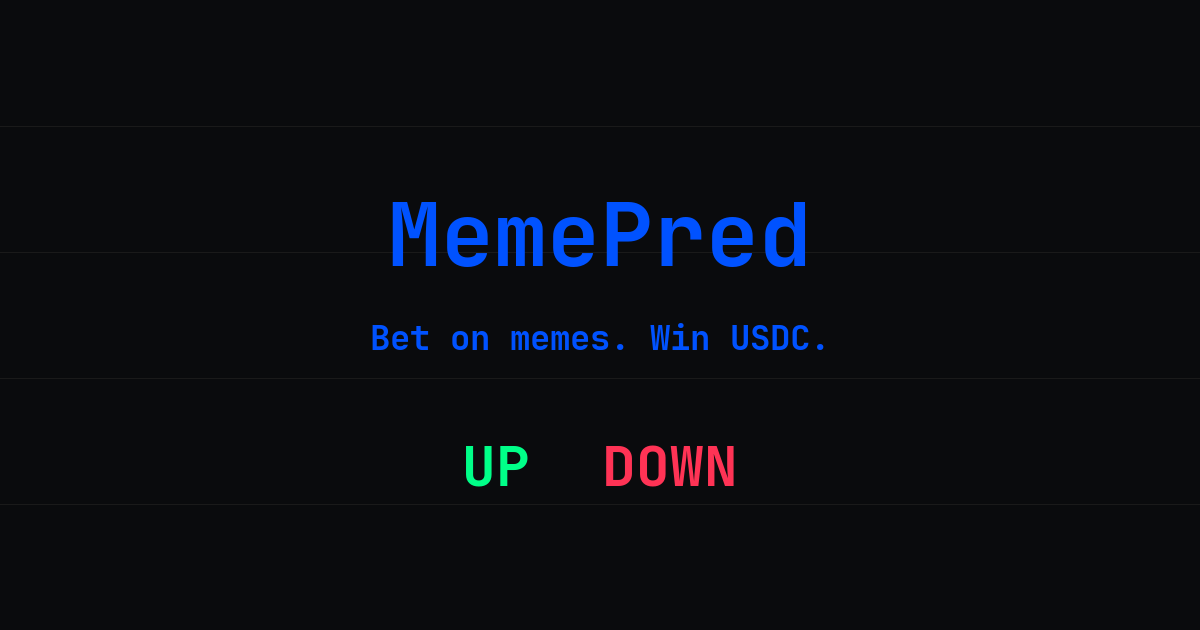
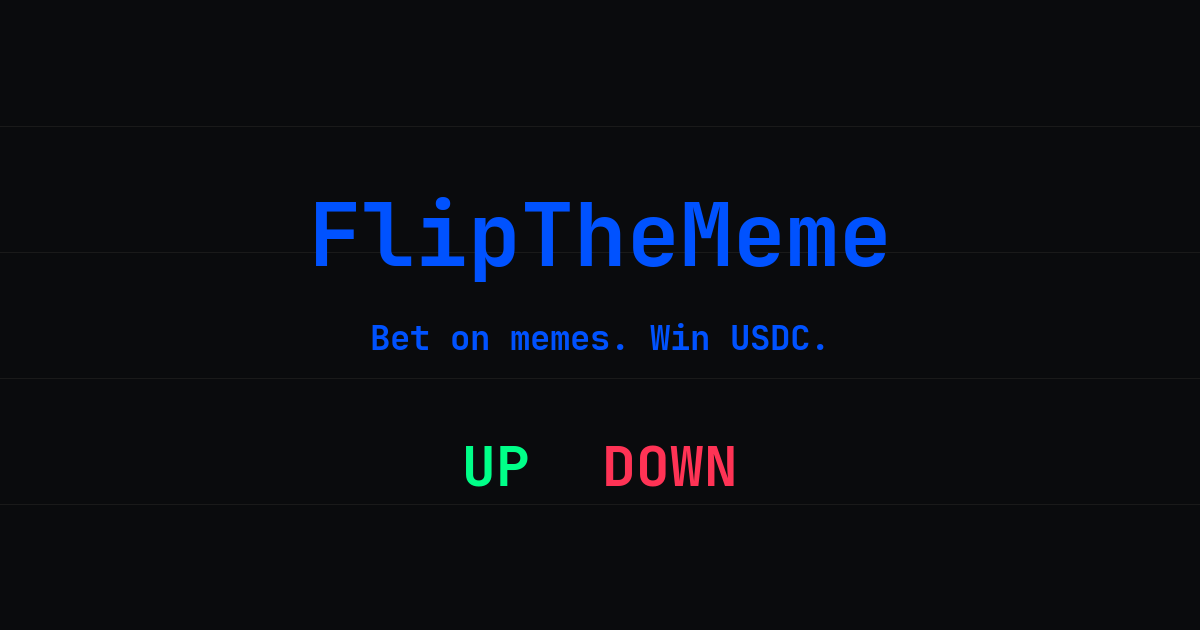
rebrand: MemePred -> FlipTheMeme (domain squatted), fix keeper nonce collisions
memepred.xyz was squatted by an unrelated phishing-style clone within days of
going public, so the product is renamed end-to-end (frontend copy, Farcaster
manifest + placeholder art, backend CORS/branding, Cloudflare Worker) to
flipthememe.com. Frontend redeployed to prod with VITE_API_URL wired to the
now-live api.flipthememe.com, and geo-block temporarily disabled via
VITE_DISABLE_GEOBLOCK until the edge Worker is actually deployed.

Also folds in an already-finished fix: keeper loops each minted their own
viem account via privateKeyToAccount() per tick, so concurrent loops hitting
the same block window fetched the same pending nonce and collided
("replacement transaction underpriced"). keeperWallet.ts centralizes one
account with viem's nonceManager so submissions serialize correctly.

Changed region(s): [[0.2467, 0.3016, 0.74, 0.4524]]

diff --git a/frontend/index.html b/frontend/index.html
@@ -4,22 +4,22 @@
     <meta charset="UTF-8" />
     <link rel="icon" type="image/svg+xml" href="/icon.png" />
     <meta name="viewport" content="width=device-width, initial-scale=1.0" />
-    <meta name="description" content="MemePred — meme coin prediction markets on Base. Bet USDC on price direction." />
-    <title>MemePred — Meme Coin Predictions</title>
+    <meta name="description" content="FlipTheMeme — meme coin prediction markets on Base. Bet USDC on price direction." />
+    <title>FlipTheMeme — Meme Coin Predictions</title>
 
     <!-- Farcaster Mini App embed (https://miniapps.farcaster.xyz/docs/specification) -->
-    <meta name="fc:miniapp" content='{"version":"1","imageUrl":"https://memepred.xyz/embed.png","button":{"title":"🎯 Predict","action":{"type":"launch_miniapp","name":"MemePred","url":"https://memepred.xyz","splashImageUrl":"https://memepred.xyz/splash.png","splashBackgroundColor":"#0b0b0f"}}}' />
+    <meta name="fc:miniapp" content='{"version":"1","imageUrl":"https://flipthememe.com/embed.png","button":{"title":"🎯 Predict","action":{"type":"launch_miniapp","name":"FlipTheMeme","url":"https://flipthememe.com","splashImageUrl":"https://flipthememe.com/splash.png","splashBackgroundColor":"#0b0b0f"}}}' />
     <!-- Backwards-compat alias for older Frame readers. -->
-    <meta name="fc:frame" content='{"version":"1","imageUrl":"https://memepred.xyz/embed.png","button":{"title":"🎯 Predict","action":{"type":"launch_frame","name":"MemePred","url":"https://memepred.xyz","splashImageUrl":"https://memepred.xyz/splash.png","splashBackgroundColor":"#0b0b0f"}}}' />
+    <meta name="fc:frame" content='{"version":"1","imageUrl":"https://flipthememe.com/embed.png","button":{"title":"🎯 Predict","action":{"type":"launch_frame","name":"FlipTheMeme","url":"https://flipthememe.com","splashImageUrl":"https://flipthememe.com/splash.png","splashBackgroundColor":"#0b0b0f"}}}' />
 
     <!-- Open Graph (Base App + Farcaster + Twitter) -->
-    <meta property="og:title"       content="MemePred — Meme Coin Predictions" />
+    <meta property="og:title"       content="FlipTheMeme — Meme Coin Predictions" />
     <meta property="og:description" content="Predict meme coin prices on Base. Earn USDC." />
-    <meta property="og:image"       content="https://memepred.xyz/embed.png" />
-    <meta property="og:url"         content="https://memepred.xyz" />
+    <meta property="og:image"       content="https://flipthememe.com/embed.png" />
+    <meta property="og:url"         content="https://flipthememe.com" />
     <meta property="og:type"        content="website" />
     <meta name="twitter:card"  content="summary_large_image" />
-    <meta name="twitter:image" content="https://memepred.xyz/embed.png" />
+    <meta name="twitter:image" content="https://flipthememe.com/embed.png" />
 
     <link rel="preconnect" href="https://fonts.googleapis.com" />
     <link rel="preconnect" href="https://fonts.gstatic.com" crossorigin />

diff --git a/backend/src/keeper/keeperWallet.ts b/backend/src/keeper/keeperWallet.ts
@@ -1,0 +1,57 @@
+/**
+ * Shared keeper account/wallet client.
+ *
+ * All keeper loops (onchainPriceRecorder, marketCreator, resolveKeeper,
+ * refundExpired) send transactions from the SAME EOA (KEEPER_PRIVATE_KEY) on
+ * independent timers (backend/src/keeper/index.ts). Before this module
+ * existed, each loop called `privateKeyToAccount(key)` fresh on every tick,
+ * so viem fetched a brand-new "pending" nonce per call with no coordination
+ * across loops. When two loops happened to submit within the same window
+ * (e.g. onchainPriceRecorder and resolveKeeper both firing near the same
+ * 30s/60s boundary), they'd both fetch the same nonce and the second
+ * submission failed with "replacement transaction underpriced" -- not a gas
+ * problem, a nonce collision. Found 2026-07-06 once the keeper wallet was
+ * actually funded and started sending real transactions.
+ *
+ * Fix: one account, attached to viem's built-in `nonceManager` (keyed by
+ * address+chainId, not by which Account/WalletClient object references it),
+ * shared by every keeper module that sends a transaction. viem's nonceManager
+ * serializes concurrent nonce consumption for the same account so loops that
+ * fire close together queue instead of colliding.
+ */
+import { createWalletClient, http, nonceManager } from 'viem'
+import { base, baseSepolia } from 'viem/chains'
+import { privateKeyToAccount, type PrivateKeyAccount } from 'viem/accounts'
+
+const chain = process.env.CHAIN_ID === '8453' ? base : baseSepolia
+
+// Precise inferred types (not the loose `WalletClient` alias) so call sites
+// don't need to re-supply `chain`/`account` per writeContract call.
+type KeeperWalletClient = ReturnType<typeof createWalletClient<
+  ReturnType<typeof http>,
+  typeof chain,
+  PrivateKeyAccount
+>>
+
+let cachedAccount: PrivateKeyAccount | null = null
+let cachedWallet: KeeperWalletClient | null = null
+
+/** Lazily creates (once) and returns the shared keeper account. */
+export function getKeeperAccount(): PrivateKeyAccount | null {
+  const key = process.env.KEEPER_PRIVATE_KEY as `0x${string}` | undefined
+  if (!key) return null
+  if (!cachedAccount) {
+    cachedAccount = privateKeyToAccount(key, { nonceManager })
+  }
+  return cachedAccount
+}
+
+/** Lazily creates (once) and returns the shared keeper wallet client. */
+export function getKeeperWalletClient(): KeeperWalletClient | null {
+  const account = getKeeperAccount()
+  if (!account) return null
+  if (!cachedWallet) {
+    cachedWallet = createWalletClient({ account, chain, transport: http(process.env.BASE_RPC_URL) })
+  }
+  return cachedWallet
+}

diff --git a/backend/src/keeper/onchainPriceRecorder.ts b/backend/src/keeper/onchainPriceRecorder.ts
@@ -1,8 +1,8 @@
-import { createPublicClient, createWalletClient, http, type Address } from 'viem'
+import { createPublicClient, http, type Address } from 'viem'
 import { base, baseSepolia } from 'viem/chains'
 const chain = process.env.CHAIN_ID === '8453' ? base : baseSepolia
-import { privateKeyToAccount } from 'viem/accounts'
 import { FEED_IDS, PYTH_HERMES, ORACLE_RESOLVER_ABI, CONTRACTS } from '../config.js'
+import { getKeeperWalletClient } from './keeperWallet.js'
 
 const publicClient = createPublicClient({ chain, transport: http(process.env.BASE_RPC_URL) })
 
@@ -13,14 +13,11 @@ const publicClient = createPublicClient({ chain, transport: http(process.env.BAS
  * balance for this purpose (top up from treasury).
  */
 export async function recordPricesOnChain() {
-  const key = process.env.KEEPER_PRIVATE_KEY as `0x${string}` | undefined
-  if (!key) { console.warn('KEEPER_PRIVATE_KEY missing — skipping on-chain price record'); return }
+  const wallet = getKeeperWalletClient()
+  if (!wallet) { console.warn('KEEPER_PRIVATE_KEY missing — skipping on-chain price record'); return }
   if (!CONTRACTS.ORACLE_RESOLVER || CONTRACTS.ORACLE_RESOLVER === '0x') {
     console.warn('ORACLE_RESOLVER address missing'); return
   }
-
-  const account = privateKeyToAccount(key)
-  const wallet  = createWalletClient({ account, chain, transport: http(process.env.BASE_RPC_URL) })
 
   for (const [symbol, feedId] of Object.entries(FEED_IDS)) {
     try {

diff --git a/backend/src/keeper/marketCreator.ts b/backend/src/keeper/marketCreator.ts
@@ -20,14 +20,13 @@
  */
 import {
   createPublicClient,
-  createWalletClient,
   http,
   type Address,
 } from 'viem'
 import { base, baseSepolia } from 'viem/chains'
-import { privateKeyToAccount } from 'viem/accounts'
 import { pg } from '../db/pg.js'
 import { CONTRACTS, MARKET_FACTORY_ABI } from '../config.js'
+import { getKeeperWalletClient } from './keeperWallet.js'
 
 const chain = process.env.CHAIN_ID === '8453' ? base : baseSepolia
 const publicClient = createPublicClient({ chain, transport: http(process.env.BASE_RPC_URL) })
@@ -57,8 +56,8 @@ async function openMarkets(): Promise<OpenMarketRow[]> {
 
 export async function createMissingMarkets() {
   if (!CONTRACTS.MARKET_FACTORY || CONTRACTS.MARKET_FACTORY === '0x') return
-  const key = process.env.KEEPER_PRIVATE_KEY as `0x${string}` | undefined
-  if (!key) return
+  const wallet = getKeeperWalletClient()
+  if (!wallet) return
 
   let feeds: readonly `0x${string}`[]
   try {
@@ -76,8 +75,6 @@ export async function createMissingMarkets() {
 
   const open = await openMarkets()
   const now  = Date.now()
-  const account = privateKeyToAccount(key)
-  const wallet = createWalletClient({ account, chain, transport: http(process.env.BASE_RPC_URL) })
 
   for (const feedId of feeds) {
     for (const dur of DURATIONS_SEC) {

diff --git a/workers/geo-block.ts b/workers/geo-block.ts
@@ -1,5 +1,5 @@
 /**
- * MemePred edge router.
+ * FlipTheMeme edge router.
  *
  * Cloudflare Worker that sits in front of the public API.
  *  - Reads `request.cf.country` (set by Cloudflare).
@@ -9,11 +9,11 @@
  *      x-worker-secret   : shared secret so the origin can trust x-country
  *
  * Required Worker secrets / env vars:
- *   ORIGIN_URL       e.g. "https://api.memepred.xyz"
+ *   ORIGIN_URL       e.g. "https://api.flipthememe.com"
  *   WORKER_SECRET    matches backend WORKER_SECRET (used by /api/geo)
  *
- * Deploy: wrangler deploy. Route the Worker to /* on api.memepred.xyz so the
- * direct origin host (e.g. api-origin.memepred.xyz) stays internal.
+ * Deploy: wrangler deploy. Route the Worker to /* on api.flipthememe.com so the
+ * direct origin host (e.g. api-origin.flipthememe.com) stays internal.
  */
 
 export interface Env {
@@ -43,7 +43,7 @@ export default {
       return new Response(
         JSON.stringify({
           error:   'region_blocked',
-          message: 'MemePred is not available in your region.',
+          message: 'FlipTheMeme is not available in your region.',
           country
         }),
         {

diff --git a/backend/src/keeper/refundExpired.ts b/backend/src/keeper/refundExpired.ts
@@ -1,8 +1,8 @@
-import { createPublicClient, createWalletClient, http, type Address } from 'viem'
+import { createPublicClient, http, type Address } from 'viem'
 import { base, baseSepolia } from 'viem/chains'
 const chain = process.env.CHAIN_ID === '8453' ? base : baseSepolia
-import { privateKeyToAccount } from 'viem/accounts'
 import { pg } from '../db/pg.js'
+import { getKeeperWalletClient } from './keeperWallet.js'
 
 const ORDERBOOK_MARKET_ABI = [
   {
@@ -60,18 +60,11 @@ const publicClient = createPublicClient({
  * Called every 5 minutes by the keeper.
  */
 export async function refundExpiredOrders() {
-  const keeperKey = process.env.KEEPER_PRIVATE_KEY as `0x${string}`
-  if (!keeperKey) {
+  const walletClient = getKeeperWalletClient()
+  if (!walletClient) {
     console.error('KEEPER_PRIVATE_KEY not set, skipping refund')
     return
   }
-
-  const account = privateKeyToAccount(keeperKey)
-  const walletClient = createWalletClient({
-    account,
-    chain,
-    transport: http(process.env.BASE_RPC_URL)
-  })
 
   // Get active market addresses from DB
   const result = await pg.query(

diff --git a/backend/src/keeper/resolveKeeper.ts b/backend/src/keeper/resolveKeeper.ts
@@ -8,14 +8,13 @@
  */
 import {
   createPublicClient,
-  createWalletClient,
   http,
   type Address,
 } from 'viem'
 import { base, baseSepolia } from 'viem/chains'
-import { privateKeyToAccount } from 'viem/accounts'
 import { pg } from '../db/pg.js'
 import { CONTRACTS, PYTH_HERMES } from '../config.js'
+import { getKeeperWalletClient } from './keeperWallet.js'
 
 const chain = process.env.CHAIN_ID === '8453' ? base : baseSepolia
 
@@ -77,12 +76,9 @@ async function fetchHermesUpdate(feedId: `0x${string}`): Promise<`0x${string}`[]
 }
 
 export async function settlePendingMarkets() {
-  const key = process.env.KEEPER_PRIVATE_KEY as `0x${string}` | undefined
-  if (!key) return
+  const wallet = getKeeperWalletClient()
+  if (!wallet) return
   if (!CONTRACTS.ORACLE_RESOLVER || CONTRACTS.ORACLE_RESOLVER === '0x') return
-
-  const account = privateKeyToAccount(key)
-  const wallet = createWalletClient({ account, chain, transport: http(process.env.BASE_RPC_URL) })
 
   const markets = await pendingMarkets()
   for (const market of markets) {

diff --git a/frontend/src/main.tsx b/frontend/src/main.tsx
@@ -42,7 +42,7 @@ function FatalEnvScreen({ missing }: { missing: string[] }) {
       background: '#000', color: '#ff3355', padding: 24,
     }}>
       <div style={{ maxWidth: 540 }}>
-        <div style={{ fontSize: 12, opacity: 0.6, marginBottom: 8 }}>MEMEPRED · CONFIG ERROR</div>
+        <div style={{ fontSize: 12, opacity: 0.6, marginBottom: 8 }}>FLIPTHEMEME · CONFIG ERROR</div>
         <h1 style={{ fontSize: 22, margin: '0 0 12px' }}>Frontend is not configured</h1>
         <p style={{ color: '#ccc', fontSize: 13, lineHeight: 1.5, marginBottom: 16 }}>
           One or more required environment variables are missing or invalid.

diff --git a/frontend/src/pages/Genesis.tsx b/frontend/src/pages/Genesis.tsx
@@ -116,7 +116,7 @@ export function GenesisPage() {
           First 20 LPs earn <em>1.5×</em> fee share <em>forever</em>.
         </h3>
         <div className="gh-sub">
-          Provide USDC to the matching vault, mint a soulbound Genesis NFT, and accrue boosted fees on every market settlement — for as long as memepred exists.
+          Provide USDC to the matching vault, mint a soulbound Genesis NFT, and accrue boosted fees on every market settlement — for as long as flipthememe exists.
         </div>
         <div className="spots">
           <div className="big">{genesisLeft}</div>

diff --git a/backend/src/config.ts b/backend/src/config.ts
@@ -23,7 +23,7 @@ export const FEED_IDS: Record<string, string> = {
 
 export const PYTH_HERMES = process.env.PYTH_HERMES_URL || 'https://hermes.pyth.network'
 export const BASE_RPC_URL = process.env.BASE_RPC_URL || 'https://mainnet.base.org'
-export const DATABASE_URL = process.env.DATABASE_URL || 'postgresql://localhost:5432/memepred'
+export const DATABASE_URL = process.env.DATABASE_URL || 'postgresql://localhost:5432/flipthememe'
 export const REDIS_URL = process.env.REDIS_URL || 'redis://localhost:6379'
 export const PORT = Number(process.env.PORT || 3001)
 

diff --git a/backend/src/index.ts b/backend/src/index.ts
@@ -19,7 +19,7 @@ import { PORT }              from './config.js'
 const app = Fastify({ logger: true })
 
 const DEFAULT_ORIGINS = [
-  'https://memepred.xyz',
+  'https://flipthememe.com',
   'http://localhost:3000',
   'http://localhost:5173'
 ]
@@ -63,7 +63,7 @@ try {
   await runMigrations()
   await redis.connect()
   await app.listen({ port: PORT, host: '0.0.0.0' })
-  console.log(`MemePred API listening on port ${PORT}`)
+  console.log(`FlipTheMeme API listening on port ${PORT}`)
 } catch (err) {
   app.log.error(err)
   process.exit(1)

diff --git a/frontend/src/components/ShareCard.tsx b/frontend/src/components/ShareCard.tsx
@@ -21,7 +21,7 @@ interface Props {
 export function ShareCard({ direction, amountUsd, payoutUsd }: Props) {
   const [copied, setCopied] = useState(false)
 
-  const text = `🎯 Just won $${payoutUsd} predicting ${direction} on MemePred (staked $${amountUsd}). Predict meme coin prices on Base 👇`
+  const text = `🎯 Just won $${payoutUsd} predicting ${direction} on FlipTheMeme (staked $${amountUsd}). Predict meme coin prices on Base 👇`
   const url = window.location.origin
 
   async function handleShare() {
